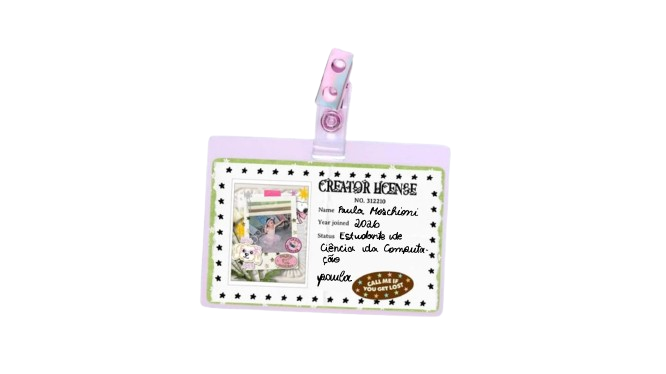
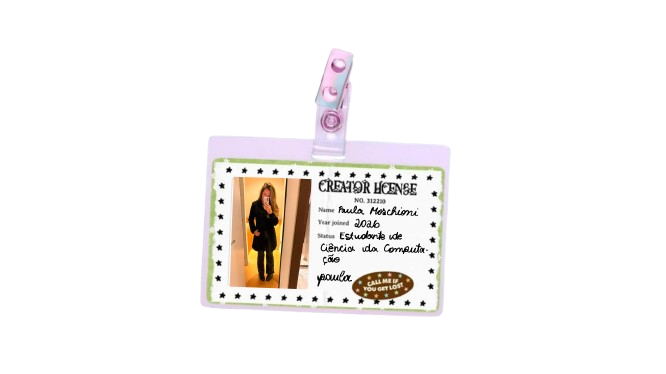
final version

Changed region(s): [[0.3303, 0.4706, 0.4805, 0.7941]]

diff --git a/atividades praticas/trabalho pratico 1/styles.css b/atividades praticas/trabalho pratico 1/styles.css
@@ -71,6 +71,15 @@ html{
 #cards-categorias .card{
     border-radius: 16px;
     overflow: hidden;   /*faz a imagem do topo seguir as bordas arredondadas*/
+    transition: transform 0.25s, box-shadow 0.25s, background-color 0.25s;   /*efeito suave*/
+}
+
+/*card fica em destaque ao passar o mouse*/
+#cards-categorias .card:hover{
+    transform: translateY(-6px);                     /*sobe um pouco*/
+    background-color: #d6ecf8;                       /*azul bebe*/
+    border-color: #a9d4ee;
+    box-shadow: 0 14px 28px rgba(0, 0, 0, 0.15);     /*sombra mais forte*/
 }
 
 #categorias{
@@ -463,7 +472,7 @@ transform: rotate(-4deg);
 /*SOBRE A AUTORA - carteirinha ao lado do texto*/
 .carteirinha{
     width: 100%;              /*ocupa toda a coluna*/
-    max-width: 340px;         /*limite para nao ficar gigante nem borrada*/
+    max-width: 520px;         /*carteirinha grande e legivel*/
     margin-bottom: 16px;      /*espaco quando a imagem fica em cima do texto no celular*/
 }
 

diff --git a/atividades praticas/trabalho pratico 1/index.html b/atividades praticas/trabalho pratico 1/index.html
@@ -106,12 +106,11 @@
 <!--Seção 3 do enunciado - sobre a autora -->
         <section id="sobre-autora">
     <div class="container">
-        <h2>Quem criou o SWIT</h2>
-        <div class="row align-items-center">
-            <div class="col-12 col-md-5 text-center">
+        <div class="row justify-content-center">
+            <div class="col-12 text-center">
                 <img src="images/carteirinha-recortada.png" alt="Carteirinha de Paula Moschioni" class="img-fluid carteirinha">
             </div>
-            <div class="col-12 col-md-7">
+            <div class="col-12 col-md-8 text-center">
                 <p><strong>Curso:</strong> Ciência da Computação – PUC Minas</p>
                     <p>Esse site foi criado com o objetivo de ser um ponto de apoio e de engajamento pessoal de mulheres na área da tecnologia que é, muitas vezes, um espaço pouco acolhedor e pouco representativo para mulheres. </p>
                     <p>
